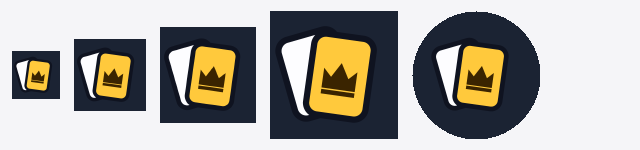
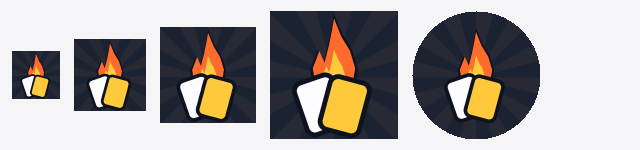
Set the cards on fire
"completely change it make it fire" -- so, both readings of that.

The crown was clean and said prize, but it was a still life. This is the
same two cards with a flame coming off them: orange body, gold core, a
hot yellow heart, over a burst that is warm now instead of blue so the
dark half of the square is lit by the flame rather than sitting behind
it.

Two goes at the balance. First had the cards at their old size and the
flame lost behind them -- a tiny orange hat on a pair of cards. The flame
is the subject, so it is nearly the full height of the square now and the
cards are small and low, reading as the thing that is burning.

The flame is a polygon walked clockwise from the tip. The notch on the
lower left is the whole job: without it the shape is a leaf. The outline
and the two inner colours are the same polygon scaled about different
anchor points -- scaled about a low point, so the core sits low and
centre where a flame is actually brightest, rather than floating in the
middle of the shape.

Checked before shipping, not after: 48, 72, 96, 128 and the circular
crop, plus a scan of the outer ring of pixels to prove nothing runs off
the edge -- the first fitted version had the flame tip clipping the top
and the cards running off the bottom.

Icon URLs restamped automatically by the hash, so this one will actually
turn up on screen.

diff --git a/tools/make-icons.js b/tools/make-icons.js
@@ -112,68 +112,85 @@ const OUTLINE = hex('#0f1320');
 const NAVY = hex('#1b2333');
 const NAVY_2 = hex('#232c41');
 const INK = hex('#3a2400');      // the brown the game uses for text on gold
+const ORANGE = hex('#ff6b2c');   // the streak colour -- the game's hot end
+const EMBER  = hex('#272a35');   // burst rays: barely there, just enough to not be flat
+const FLAME_HOT = hex('#ffe07a');
 const GOLD = hex('#ffc93c');
 const WHITE = hex('#fdfdff');
 
+// A flame, on a 100x100 grid, walked clockwise from the tip. The notch on the lower
+// left is what stops it reading as a leaf or a teardrop.
+const FLAME = [
+  [50, 3], [60, 23], [72, 39], [79, 58], [75, 77], [60, 91],
+  [40, 91], [25, 77], [21, 58], [30, 39], [37, 52], [43, 33], [47, 17],
+];
+
+// Scaling a polygon about a point is not a true outline offset, but for a shape this
+// chunky it is indistinguishable and it costs one line.
+function grow(pts, k, ox, oy) {
+  return pts.map(([x, y]) => [ox + (x - ox) * k, oy + (y - oy) * k]);
+}
+
 function render(size, inset) {
   // inset leaves the safe area a maskable icon needs, so Android can crop it to a
-  // circle or a squircle without slicing the cards in half.
+  // circle or a squircle without slicing anything important off.
   const S = size;
   const pad = S * inset;
   const box = S - pad * 2;
   const cx = S / 2, cy = S / 2;
 
-  // One card carries the icon and the other is just depth behind it. The previous
-  // version gave two cards equal weight, stacked a number on top and put a sunburst
-  // behind the lot -- four things competing inside 48 pixels, which is why it read as
-  // clutter. One subject, one supporting shape, nothing else.
-  const cardW = box * 0.50, cardH = box * 0.70, radius = box * 0.08;
-  const lip = box * 0.058;
-
-  const backX = cx - box * 0.17, backY = cy - box * 0.01, backDeg = -16;
-  const frontX = cx + box * 0.055, frontY = cy + box * 0.015, frontDeg = 8;
-
   const shapes = [];
 
-  // the card behind: face down, blank, just enough of it showing to read as a second
-  shapes.push({ test: (x, y) => inCard(x, y, backX, backY, cardW + lip * 2, cardH + lip * 2, radius + lip, backDeg), c: OUTLINE });
-  shapes.push({ test: (x, y) => inCard(x, y, backX, backY, cardW, cardH, radius, backDeg), c: WHITE });
+  // Burst rays. Warm rather than blue this time, so the dark parts of the square are
+  // lit by the flame instead of sitting behind it.
+  for (let i = 0; i < 24; i += 2) {
+    shapes.push({ test: (x, y) => inRay(x, y, cx, cy * 1.04, i * 15, 15), c: EMBER });
+  }
 
-  // the prize card
-  shapes.push({ test: (x, y) => inCard(x, y, frontX, frontY, cardW + lip * 2, cardH + lip * 2, radius + lip, frontDeg), c: OUTLINE });
-  shapes.push({ test: (x, y) => inCard(x, y, frontX, frontY, cardW, cardH, radius, frontDeg), c: GOLD });
+  /* ---- the flame, sitting high so the card can overlap its base ---- */
+  const fW = box * 0.68, fH = box * 0.84;
+  const fx = cx, fy = cy - box * 0.13;
+  const toFlame = (x, y) => [((x - fx) / fW + 0.5) * 100, ((y - fy) / fH + 0.5) * 100];
 
-  // A crown on it, which is what the whole game is about: this is the card you win.
-  // The same shape the royal card back uses, on the game's own 24-unit grid, drawn in
-  // the card's frame so it leans with the card.
-  const CROWN = [[2.4, 7.4], [7, 12], [12, 3.4], [17, 12], [21.6, 7.4], [21.6, 18.8], [2.4, 18.8]];
-  const g = cardW * 0.78 / 24;                    // grid units to pixels
-  shapes.push({
-    c: INK,
-    test: (x, y) => {
-      const [lx, ly] = toLocal(x, y, frontX, frontY, frontDeg);
-      // centre the 24x24 grid on the card, nudged up so the band below sits inside it
-      const gx = lx / g + 12, gy = ly / g + 11.2;
-      return inPoly(gx, gy, CROWN) || inBar(gx, gy, 12, 20.9, 19.2, 2.6, 0);
-    },
-  });
+  const outer = grow(FLAME, 1.13, 50, 50);
+  shapes.push({ test: (x, y) => { const [u, v] = toFlame(x, y); return inPoly(u, v, outer); }, c: OUTLINE });
+  shapes.push({ test: (x, y) => { const [u, v] = toFlame(x, y); return inPoly(u, v, FLAME); }, c: ORANGE });
+
+  // the hot core, pulled down and in -- a flame is brightest low and centre
+  const core = grow(FLAME, 0.52, 50, 74);
+  shapes.push({ test: (x, y) => { const [u, v] = toFlame(x, y); return inPoly(u, v, core); }, c: GOLD });
+  const heart = grow(FLAME, 0.24, 50, 80);
+  shapes.push({ test: (x, y) => { const [u, v] = toFlame(x, y); return inPoly(u, v, heart); }, c: FLAME_HOT });
+
+  /* ---- the cards, low and overlapping the flame's base ---- */
+  const cardW = box * 0.33, cardH = box * 0.46, radius = box * 0.055;
+  const lip = box * 0.045;
+  const cardY = cy + box * 0.29;
+
+  const back = { x: cx - box * 0.13, y: cardY - box * 0.012, deg: -19 };
+  const front = { x: cx + box * 0.10, y: cardY, deg: 15 };
+
+  shapes.push({ test: (x, y) => inCard(x, y, back.x, back.y, cardW + lip * 2, cardH + lip * 2, radius + lip, back.deg), c: OUTLINE });
+  shapes.push({ test: (x, y) => inCard(x, y, back.x, back.y, cardW, cardH, radius, back.deg), c: WHITE });
+  shapes.push({ test: (x, y) => inCard(x, y, front.x, front.y, cardW + lip * 2, cardH + lip * 2, radius + lip, front.deg), c: OUTLINE });
+  shapes.push({ test: (x, y) => inCard(x, y, front.x, front.y, cardW, cardH, radius, front.deg), c: GOLD });
 
   const out = Buffer.alloc(S * S * 4);
   const SS = 3;                     // supersampling, so the edges are not jagged
   for (let y = 0; y < S; y++) {
     for (let x = 0; x < S; x++) {
-      let r = 0, gg = 0, b = 0;
+      let r = 0, g = 0, b = 0;
       for (let sy = 0; sy < SS; sy++) {
         for (let sx = 0; sx < SS; sx++) {
           const px = x + (sx + 0.5) / SS, py = y + (sy + 0.5) / SS;
           let col = NAVY;
           for (const sh of shapes) if (sh.test(px, py)) col = sh.c;
-          r += col[0]; gg += col[1]; b += col[2];
+          r += col[0]; g += col[1]; b += col[2];
         }
       }
       const n = SS * SS, i = (y * S + x) * 4;
       out[i] = Math.round(r / n);
-      out[i + 1] = Math.round(gg / n);
+      out[i + 1] = Math.round(g / n);
       out[i + 2] = Math.round(b / n);
       out[i + 3] = 255;
     }

diff --git a/index.html b/index.html
@@ -11,8 +11,8 @@
      runs edge to edge instead of inside a browser. -->
 <link rel="manifest" href="manifest.webmanifest" />
 <meta name="theme-color" content="#1b2333" />
-<link rel="icon" type="image/png" sizes="192x192" href="icon-192.png?v=edb83d55" />
-<link rel="apple-touch-icon" href="icon-180.png?v=edb83d55" />
+<link rel="icon" type="image/png" sizes="192x192" href="icon-192.png?v=a5b8631b" />
+<link rel="apple-touch-icon" href="icon-180.png?v=a5b8631b" />
 <meta name="apple-mobile-web-app-capable" content="yes" />
 <meta name="apple-mobile-web-app-status-bar-style" content="black-translucent" />
 <meta name="apple-mobile-web-app-title" content="War Prize" />

diff --git a/server.js b/server.js
@@ -14,7 +14,7 @@ const { screenUsername } = require('./moderation');
 
 const PORT = Number(process.argv[2] || process.env.PORT || 8421);
 // Bumped whenever something worth verifying from outside ships. /api/health reports it.
-const BUILD = 27;
+const BUILD = 28;
 const ROOT = __dirname;
 const DATA_FILE = path.join(ROOT, 'data.json');
 
